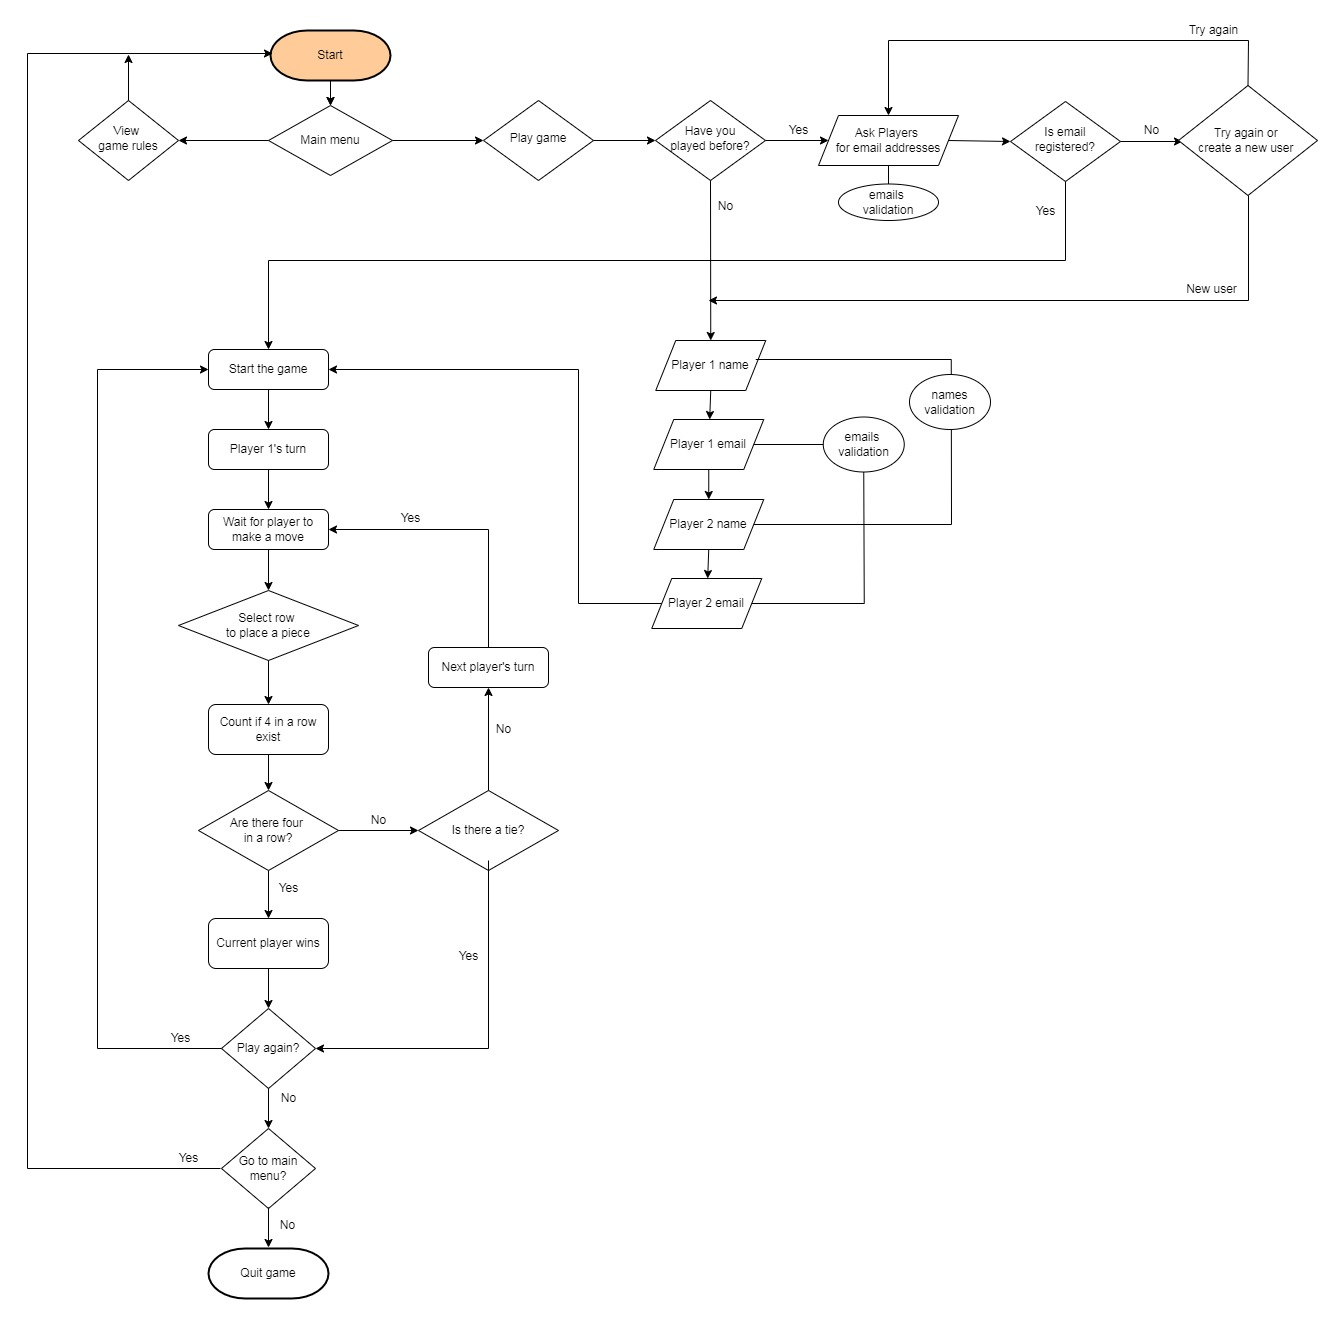
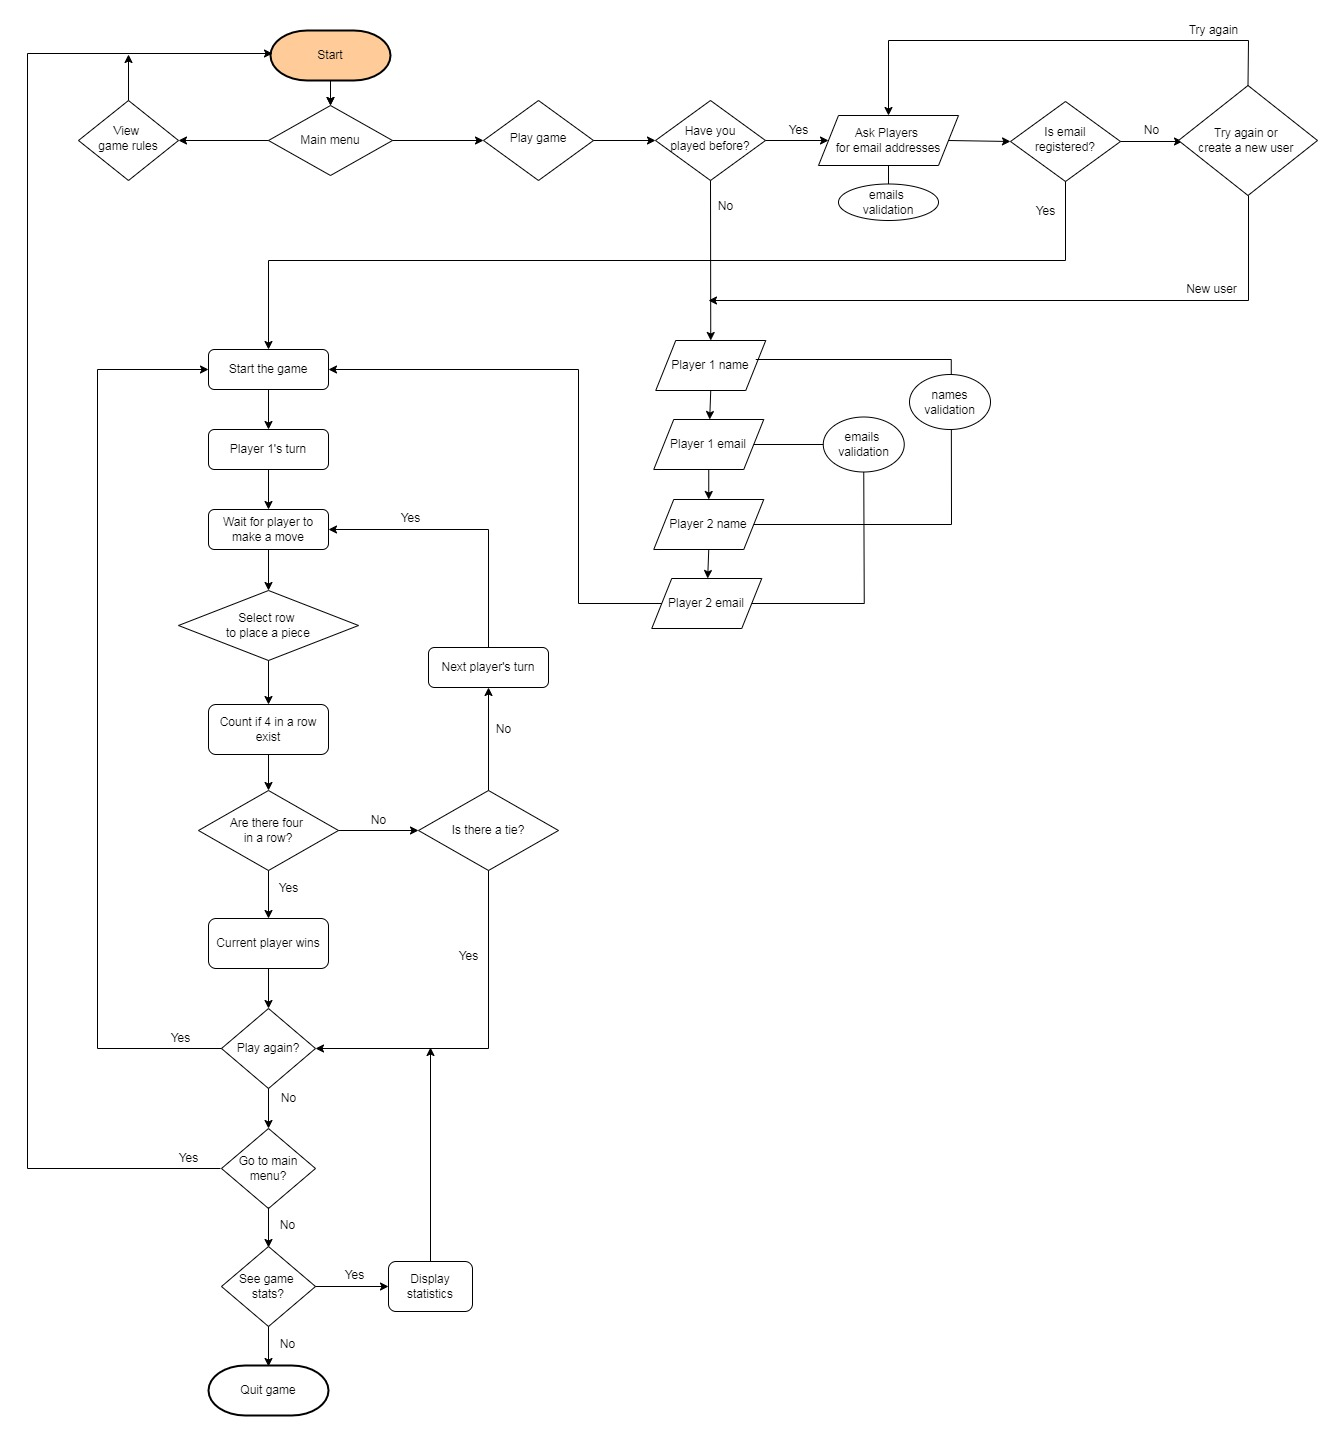
Update flowchart following addition of game stats

diff --git a/README.md b/README.md
@@ -520,9 +520,9 @@ VSCode was used to write the project code using Code Institute template
 | Across all screen | Simple navigation and game play  | Colored messages and straightforward instructions | Works as expected |
 
 <details><summary>Screenshots</summary>
-<img src="docs/testing/user-story-10-a.JPG">
-<img src="docs/testing/user-story-10-b.JPG">
-<img src="docs/testing/user-story-10-c.JPG">
+<img src="docs/testing/user-story-10-a.jpg">
+<img src="docs/testing/user-story-10-b.jpg">
+<img src="docs/testing/user-story-10-c.jpg">
 </details>
 
 11.  I want users to easily select options from the menu
